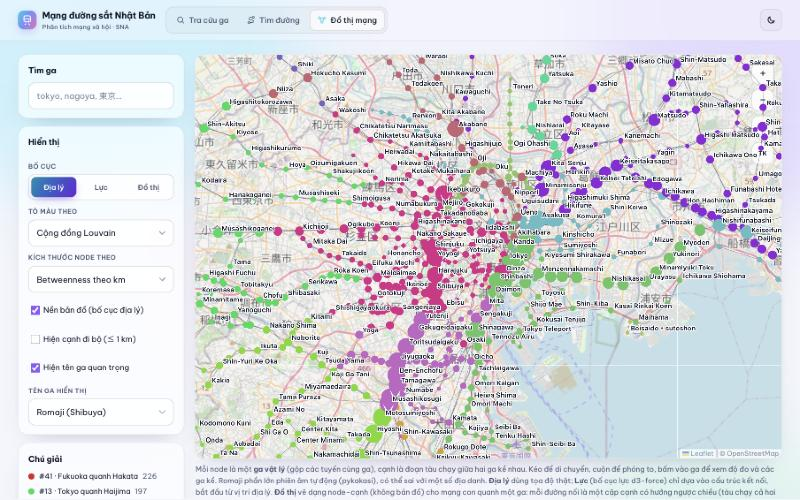
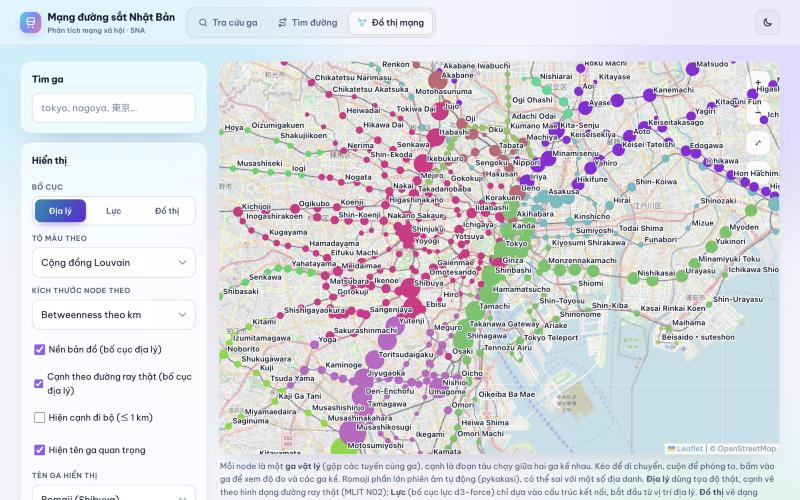
Update PTMXH rail slides with real track km (MLIT N02)

diff --git a/phan-tich-mang-xa-hoi/BaiCaNhan_DuongSatNB_Slide.html b/phan-tich-mang-xa-hoi/BaiCaNhan_DuongSatNB_Slide.html
@@ -257,7 +257,7 @@
     <div class="flow">
       <div class="step"><div class="no">01</div><div class="tt">Crawl HeartRails</div><div class="dd">646 request API: tỉnh → tuyến → ga</div></div>
       <div class="arr">→</div>
-      <div class="step"><div class="no">02</div><div class="tt">MLIT N02</div><div class="dd">Công ty vận hành, loại tuyến</div></div>
+      <div class="step"><div class="no">02</div><div class="tt">MLIT N02</div><div class="dd">Công ty vận hành, loại tuyến, km đường ray</div></div>
       <div class="arr">→</div>
       <div class="step"><div class="no">03</div><div class="tt">Crawl ODPT</div><div class="dd">Giờ tàu, giá vé (chờ key)</div></div>
       <div class="arr">→</div>
@@ -338,11 +338,11 @@
   <!-- 6. MLIT -->
   <section class="slide" data-title="MLIT N02">
     <p class="kicker"><i></i>Lấy dữ liệu · <code>src/02_fetch_mlit_n02.py</code></p>
-    <h2>MLIT N02: bổ sung công ty vận hành và loại tuyến</h2>
+    <h2>MLIT N02: công ty vận hành, loại tuyến, km đường ray</h2>
     <div class="grid g2 fill">
       <div class="card">
         <h3>Tải về và đọc</h3>
-        <p>Tải file <code>N02-25_GML.zip</code>, đọc lớp <b>Station</b> (GeoJSON). Các trường dùng:</p>
+        <p>Tải file <code>N02-25_GML.zip</code>, đọc lớp <b>Station</b> (ga) và <b>RailroadSection</b> (21.933 đoạn ray). Các trường dùng:</p>
         <table>
           <tbody>
             <tr><td><code>N02_001</code></td><td><span class="jp">鉄道区分</span> <span class="ro">tetsudō kubun</span> <span class="vi">(phân loại kỹ thuật: đường sắt thường, tàu điện mặt đường…)</span></td></tr>
@@ -360,7 +360,10 @@
           <li>Tuyến Shinkansen <span class="vi">(tàu cao tốc)</span> chỉ được ghép với Shinkansen, tránh lỗi 東海道新幹線 <span class="ro">Tōkaidō Shinkansen</span> bị ghép nhầm sang 東海道線 <span class="ro">Tōkaidō-sen</span>.</li>
           <li>Xử lý ngoại lệ: Osaka Metro (pháp lý là “軌道” <span class="ro">kidō</span> <span class="vi">(đường ray kiểu tàu điện)</span>), tàu điện ngầm Sapporo bánh cao su, tàu điện 都電荒川線 <span class="ro">Toden Arakawa</span>.</li>
         </ul>
-        <div class="stat" style="margin-top:12px"><div class="n">596 / 598</div><div class="l">tuyến ghép được công ty vận hành + loại tuyến</div></div>
+        <div class="grid g2" style="margin-top:12px;gap:12px">
+          <div class="stat"><div class="n">596 / 598</div><div class="l">tuyến ghép được công ty + loại tuyến</div></div>
+          <div class="stat"><div class="n">98,9%</div><div class="l">cặp ga kề có km đường ray thật (<code>02b_rail_geometry.py</code>)</div></div>
+        </div>
       </div>
     </div>
   </section>
@@ -451,7 +454,7 @@
         <tr class="hl"><td colspan="2"><b>Tổng cạnh</b> · cộng 10.390 node = <b>52.440 bản ghi</b> (mục tiêu ≈ 50k)</td><td class="num"><b>42.050</b></td></tr>
       </tbody>
     </table>
-    <p class="small muted" style="margin-top:16px">Cột của cạnh: <code>source, target, edge_type, line, distance_km, run_time_min, time_source, train_types, trains_per_weekday, direction_terminal</code>. Khoảng cách là đường chim bay giữa hai tọa độ, ghi rõ không phải km theo đường ray.</p>
+    <p class="small muted" style="margin-top:16px">Cột của cạnh: <code>source, target, edge_type, line, distance_km, track_km, km_source, run_time_min, time_source, train_types, trains_per_weekday, direction_terminal</code>. <code>track_km</code> = km theo đường ray thật (MLIT N02, đo dọc ray giữa hai ga kề); <code>distance_km</code> = đường chim bay, dùng cho cạnh đi bộ và 1,1% cạnh tàu chưa ghép được ray.</p>
   </section>
 
   <!-- 10. Làm sạch + romaji -->
@@ -505,8 +508,8 @@
         <span class="tag g">Cấp B · <code>05b_station_metrics.py</code></span>
         <h3 style="margin-top:6px">Ga vật lý, có trọng số km</h3>
         <ul class="small">
-          <li>9.075 ga; <b>9.624 cạnh</b>; tổng chiều dài 25.866 km.</li>
-          <li>Trọng số = km đường chim bay; đường ngắn nhất bằng Dijkstra.</li>
+          <li>9.075 ga; <b>9.624 cạnh</b>; tổng chiều dài 27.635 km.</li>
+          <li>Trọng số = <b>km đường ray thật</b> (MLIT N02); đường ngắn nhất bằng Dijkstra.</li>
           <li>Độ đo: degree, betweenness theo <b>bước</b> và theo <b>km</b>, closeness theo bước và theo km.</li>
           <li>Lý do: một chặng Shinkansen 30 km ≠ một chặng tàu thường 1 km.</li>
         </ul>
@@ -532,8 +535,8 @@
       <div class="stat"><div class="n">1,0</div><div class="l">reciprocity (tỉ lệ cạnh có chiều ngược)</div></div>
       <div class="stat"><div class="n">0,031</div><div class="l">clustering trung bình</div></div>
       <div class="stat"><div class="n">0,959</div><div class="l">modularity · 122 cộng đồng Louvain</div></div>
-      <div class="stat"><div class="n">≈ 57</div><div class="l">chặng TB giữa hai ga · ≈ 590 km</div></div>
-      <div class="stat"><div class="n">≈ 241</div><div class="l">chặng đường kính · 2.541 km</div></div>
+      <div class="stat"><div class="n">≈ 57</div><div class="l">chặng TB giữa hai ga · ≈ 624 km</div></div>
+      <div class="stat"><div class="n">≈ 241</div><div class="l">chặng đường kính · 2.736 km</div></div>
     </div>
     <div class="grid g3" style="margin-top:20px">
       <div class="callout"><p><b>Thưa + đường đi dài</b>: mạng không gian dạng chuỗi, mỗi ga chỉ nối vài ga kề — trái ngược mạng xã hội “thế giới nhỏ”.</p></div>
@@ -592,21 +595,21 @@
         <p class="small muted" style="margin-top:10px">Toàn bộ là ga trên trục <b>Tokaido Shinkansen</b>: một chặng Shinkansen dài vài chục km chỉ tính 1 bước, nên đường “ngắn nhất” luôn đi tàu cao tốc.</p>
       </div>
       <div class="card accent">
-        <h3>Theo km (Dijkstra, trọng số km)</h3>
+        <h3>Theo km đường ray (Dijkstra)</h3>
         <div class="bars">
-          <div class="bar"><span class="nm"><b>Himeji</b> <span class="jp xs">姫路</span></span><span class="t"><i style="width:100%"></i></span><span class="v">.316</span></div>
-          <div class="bar"><span class="nm"><b>Okayama</b> <span class="jp xs">岡山</span></span><span class="t"><i style="width:97%"></i></span><span class="v">.307</span></div>
-          <div class="bar"><span class="nm"><b>Aioi</b> <span class="jp xs">相生</span></span><span class="t"><i style="width:93%"></i></span><span class="v">.294</span></div>
-          <div class="bar"><span class="nm"><b>Kyoto</b></span><span class="t"><i style="width:79%"></i></span><span class="v">.249</span></div>
-          <div class="bar"><span class="nm"><b>Nagoya</b></span><span class="t"><i style="width:77%"></i></span><span class="v">.243</span></div>
-          <div class="bar"><span class="nm"><b>Hiroshima</b></span><span class="t"><i style="width:76%"></i></span><span class="v">.239</span></div>
+          <div class="bar"><span class="nm"><b>Yamashina</b> <span class="jp xs">山科</span></span><span class="t"><i style="width:100%"></i></span><span class="v">.348</span></div>
+          <div class="bar"><span class="nm"><b>Okayama</b> <span class="jp xs">岡山</span></span><span class="t"><i style="width:92%"></i></span><span class="v">.320</span></div>
+          <div class="bar"><span class="nm"><b>Himeji</b> <span class="jp xs">姫路</span></span><span class="t"><i style="width:91%"></i></span><span class="v">.318</span></div>
+          <div class="bar"><span class="nm"><b>Nishi-Akashi</b> <span class="jp xs">西明石</span></span><span class="t"><i style="width:90%"></i></span><span class="v">.313</span></div>
+          <div class="bar"><span class="nm"><b>Kyoto</b></span><span class="t"><i style="width:89%"></i></span><span class="v">.310</span></div>
+          <div class="bar"><span class="nm"><b>Aioi</b> <span class="jp xs">相生</span></span><span class="t"><i style="width:87%"></i></span><span class="v">.304</span></div>
         </div>
-        <p class="small muted" style="margin-top:10px">Nút thắt thật trên hành lang <b>San'yo</b> nối Kansai với Chugoku – Kyushu: gần như mọi lộ trình Đông ↔ Tây đều phải qua.</p>
+        <p class="small muted" style="margin-top:10px">Nút thắt ở <b>cửa ngõ Kyoto</b> (Yamashina: Tokaido + Kosei nhập vào) và hành lang <b>San'yo</b> nối Kansai với Chugoku – Kyushu. Nơi Shinkansen song song tuyến thường, hạng từng ga nhạy với chênh lệch km nhỏ → đọc theo hành lang.</p>
       </div>
     </div>
     <div class="grid g3" style="margin-top:16px">
-      <div class="stat"><div class="n">0,61</div><div class="l">tương quan hạng Spearman giữa hai cách đo</div></div>
-      <div class="stat"><div class="n">6 / 20</div><div class="l">ga trùng nhau trong top 20</div></div>
+      <div class="stat"><div class="n">0,56</div><div class="l">tương quan hạng Spearman giữa hai cách đo</div></div>
+      <div class="stat"><div class="n">3 / 20</div><div class="l">ga trùng nhau trong top 20</div></div>
       <div class="stat"><div class="n">k = 300</div><div class="l">betweenness cấp A lấy mẫu 300 nguồn, seed 42</div></div>
     </div>
   </section>
@@ -621,11 +624,11 @@
         <table>
           <thead><tr><th>Ga</th><th class="num">Closeness</th><th class="num">km TB</th></tr></thead>
           <tbody>
-            <tr><td><b>Nagoya</b> <span class="jp xs">名古屋</span></td><td class="num">2,430</td><td class="num">≈ 411</td></tr>
-            <tr><td>Kokusai Center <span class="jp xs">国際センター</span></td><td class="num">2,427</td><td class="num">≈ 412</td></tr>
-            <tr><td>Fushimi <span class="jp xs">伏見</span></td><td class="num">2,427</td><td class="num">≈ 412</td></tr>
-            <tr><td>Sakae <span class="jp xs">栄</span></td><td class="num">2,426</td><td class="num">≈ 412</td></tr>
-            <tr><td class="muted">Shinjuku (so sánh)</td><td class="num muted">2,110</td><td class="num muted">≈ 474</td></tr>
+            <tr><td><b>Nagoya</b> <span class="jp xs">名古屋</span></td><td class="num">2,284</td><td class="num">≈ 438</td></tr>
+            <tr><td>Fushimi <span class="jp xs">伏見</span></td><td class="num">2,283</td><td class="num">≈ 438</td></tr>
+            <tr><td>Sakae <span class="jp xs">栄</span></td><td class="num">2,283</td><td class="num">≈ 438</td></tr>
+            <tr><td>Kokusai Center <span class="jp xs">国際センター</span></td><td class="num">2,283</td><td class="num">≈ 438</td></tr>
+            <tr><td class="muted">Shinjuku (so sánh)</td><td class="num muted">2,007</td><td class="num muted">≈ 498</td></tr>
           </tbody>
         </table>
         <p class="small muted" style="margin-top:10px">Top toàn là ga trung tâm Nagoya: tâm hình học của mạng nằm ở vùng Chubu. Tính trên thành phần lớn nhất.</p>
@@ -697,7 +700,7 @@
     <table>
       <thead><tr><th style="width:5%">#</th><th style="width:28%">Độ đo</th><th>Trả lời câu hỏi</th><th style="width:15%">Mức độ</th></tr></thead>
       <tbody>
-        <tr class="hl"><td>1</td><td><b>Betweenness theo km</b> (ga vật lý)</td><td>Q1 — ga cầu nối, điểm nghẽn giữa các vùng: Himeji, Okayama</td><td><span class="tag g">Quan trọng nhất</span></td></tr>
+        <tr class="hl"><td>1</td><td><b>Betweenness theo km</b> (ga vật lý)</td><td>Q1 — ga cầu nối, điểm nghẽn giữa các vùng: cửa ngõ Kyoto (Yamashina), Okayama, Himeji</td><td><span class="tag g">Quan trọng nhất</span></td></tr>
         <tr><td>2</td><td><b>Degree / số tuyến</b></td><td>Q2 — ga đầu mối trung chuyển: Tokyo, Omiya, Yokohama</td><td><span class="tag g">Quan trọng</span></td></tr>
         <tr><td>3</td><td><b>Closeness theo km</b></td><td>Ga ở “trung tâm” địa lý của mạng: Nagoya</td><td><span class="tag g">Quan trọng</span></td></tr>
         <tr><td>4</td><td><b>Louvain + SCC/WCC</b></td><td>Q3, Q4 — cụm vùng, mạng tách rời</td><td><span class="tag g">Quan trọng</span></td></tr>
@@ -734,9 +737,9 @@
     <p class="kicker"><i></i>Ứng dụng · <code>web/route.html</code></p>
     <h2>Tìm đường giữa hai ga</h2>
     <div class="grid g-6-4 fill">
-      <figure><img class="shot" src="slide-art/rail-web-route.jpg" width="800" height="500" alt="Lộ trình Tokyo đến Himeji: 19 chặng, 1 lần chuyển tuyến, 564,8 km" loading="lazy" /><figcaption>Tokyo → Himeji: 19 chặng, 1 lần chuyển tuyến tại Shin-Osaka, 564,8 km.</figcaption></figure>
+      <figure><img class="shot" src="slide-art/rail-web-route.jpg" width="800" height="500" alt="Lộ trình Tokyo đến Himeji: 19 chặng, 1 lần chuyển tuyến, 599,9 km theo đường ray" loading="lazy" /><figcaption>Tokyo → Himeji: 19 chặng, 1 lần chuyển tuyến tại Shin-Osaka, 599,9 km theo đường ray; lộ trình vẽ theo ray thật.</figcaption></figure>
       <div class="grid" style="align-content:start">
-        <div class="card"><h3>Dijkstra, 4 tiêu chí</h3><p class="small">Ít chặng nhất · ít chuyển tuyến nhất · ngắn nhất (km) · nhanh nhất (chỉ khi có thời gian chính thức).</p></div>
+        <div class="card"><h3>Dijkstra, 4 tiêu chí</h3><p class="small">Ít chặng nhất · ít chuyển tuyến nhất · ngắn nhất (km đường ray) · nhanh nhất (chỉ khi có thời gian chính thức).</p></div>
         <div class="card"><h3>Từng chặng</h3><p class="small">Tuyến, loại tuyến, công ty, hướng về terminal nào, số ga, thời gian, loại tàu, giá vé; vẽ lộ trình lên bản đồ.</p></div>
         <div class="card warn"><h3>Trung thực với dữ liệu</h3><p class="small">Chặng chưa có dữ liệu ODPT ghi “Chưa có dữ liệu chính thức” và không cộng vào tổng.</p></div>
       </div>
@@ -748,7 +751,7 @@
     <p class="kicker"><i></i>Ứng dụng · <code>web/graph.html</code></p>
     <h2>Trực quan hóa đồ thị mạng</h2>
     <div class="grid g2">
-      <figure><img class="shot" src="slide-art/rail-web-graph-geo.jpg" width="800" height="500" alt="Bố cục địa lý quanh Tokyo trên nền bản đồ, màu theo cộng đồng Louvain" loading="lazy" /><figcaption><b>Địa lý</b>: 9.075 ga trên nền bản đồ, màu = cộng đồng Louvain, kích thước = betweenness theo km.</figcaption></figure>
+      <figure><img class="shot" src="slide-art/rail-web-graph-geo.jpg" width="800" height="500" alt="Bố cục địa lý quanh Tokyo trên nền bản đồ, màu theo cộng đồng Louvain" loading="lazy" /><figcaption><b>Địa lý</b>: 9.075 ga trên nền bản đồ, cạnh vẽ theo hình dạng đường ray thật; màu = cộng đồng Louvain, kích thước = betweenness theo km.</figcaption></figure>
       <figure><img class="shot" src="slide-art/rail-web-graph-ego.jpg" width="800" height="500" alt="Đồ thị node–cạnh quanh ga Shinjuku, 3 bước" loading="lazy" /><figcaption><b>Đồ thị</b>: mạng con node–cạnh quanh Shinjuku (3 bước, 80 ga), kéo thả, bấm đúp đổi ga trung tâm.</figcaption></figure>
     </div>
     <p class="small muted" style="margin-top:14px">Ba bố cục: <b>Địa lý</b> (tọa độ thật, Web Mercator khớp bản đồ) · <b>Lực</b> (d3-force, chỉ theo cấu trúc kết nối) · <b>Đồ thị</b> (mạng con quanh một ga). Tô màu / kích thước theo cộng đồng, loại tuyến, betweenness, closeness, số tuyến.</p>
@@ -759,7 +762,7 @@
     <p class="kicker"><i></i>Ứng dụng · ý nghĩa thực tế</p>
     <h2>Các độ đo dùng để làm gì?</h2>
     <div class="grid g2 fill">
-      <div class="card"><h3>Khả năng chống chịu (resilience)</h3><p class="small">Ga betweenness theo km cao là <b>điểm nghẽn</b>: sự cố ở Himeji / Okayama cắt đứt liên lạc Kansai ↔ Chugoku – Kyushu. Dùng để ưu tiên tuyến dự phòng, phương án chạy vòng.</p></div>
+      <div class="card"><h3>Khả năng chống chịu (resilience)</h3><p class="small">Ga betweenness theo km cao là <b>điểm nghẽn</b>: sự cố ở cửa ngõ Kyoto hay Okayama / Himeji cắt đứt liên lạc Kansai ↔ Hokuriku, Chugoku – Kyushu. Dùng để ưu tiên tuyến dự phòng, phương án chạy vòng.</p></div>
       <div class="card"><h3>Quy hoạch trung chuyển</h3><p class="small">Degree / số tuyến chỉ ra ga đầu mối (Tokyo, Omiya, Shinjuku) — nơi cần sức chứa sân ga, lối chuyển tuyến, thông tin hành khách.</p></div>
       <div class="card"><h3>Phân vùng vận hành và du lịch</h3><p class="small">Cộng đồng Louvain gần khớp vùng đô thị → gợi ý phạm vi vé ngày / vé vùng, khu vực điều độ.</p></div>
       <div class="card"><h3>Vị trí đặt dịch vụ</h3><p class="small">Closeness theo km cho thấy Nagoya gần mọi nơi nhất trên mạng → hợp đặt trung tâm điều phối, kho, sự kiện toàn quốc.</p></div>
@@ -775,7 +778,7 @@
         <h3>Hạn chế</h3>
         <ul class="small">
           <li>Chưa có thời gian chạy, loại tàu, giá vé chính thức (chờ ODPT; ODPT cũng chủ yếu phủ Kanto).</li>
-          <li>Km là <b>đường chim bay</b> giữa hai ga, không phải km đường ray.</li>
+          <li>Km đường ray là km thực, khác km tính giá vé (営業キロ <span class="ro">eigyō kiro</span>); 1,1% cạnh tàu vẫn là đường chim bay.</li>
           <li>Mạng tĩnh gộp cả ngày → không thấy được chiều đi theo giờ.</li>
           <li>Betweenness cấp A lấy mẫu k = 300; romaji tự động có thể sai một số địa danh.</li>
         </ul>
@@ -786,7 +789,6 @@
           <li>Có key ODPT: chạy 03 → 06, thêm cạnh <code>service</code> (tàu nhanh), thời gian và giá vé thật.</li>
           <li>Mô hình có trọng số theo khung giờ và mạng theo thời gian (temporal): tìm đường theo giờ xuất phát.</li>
           <li>Mô phỏng chống chịu: lần lượt bỏ các ga betweenness cao, đo thành phần liên thông lớn nhất còn lại.</li>
-          <li>Km theo đường ray từ lớp RailroadSection của MLIT.</li>
         </ul>
       </div>
     </div>
@@ -797,9 +799,9 @@
     <p class="kicker"><i></i>Kết luận</p>
     <h1 style="font-size:50px">Mạng đường sắt Nhật Bản là <span class="grad">mạng không gian</span>:<br>thưa, dạng chuỗi, chia cụm theo vùng.</h1>
     <ul style="max-width:1050px">
-      <li><b>Q1:</b> Cầu nối Đông ↔ Tây là hành lang San'yo (Himeji, Okayama, Aioi) khi đo theo km; đo theo số chặng thì lệch sang Tokaido Shinkansen.</li>
+      <li><b>Q1:</b> Cầu nối Đông ↔ Tây là cửa ngõ Kyoto (Yamashina, Kyoto) và hành lang San'yo (Okayama, Himeji, Nishi-Akashi) khi đo theo km đường ray; đo theo số chặng thì lệch sang Tokaido Shinkansen.</li>
       <li><b>Q2:</b> Đầu mối trung chuyển: Tokyo (13 tuyến), Omiya, Yokohama, Shinjuku.</li>
-      <li><b>Q3:</b> 122 cộng đồng, modularity 0,96, khớp vùng đô thị. <b>Q4:</b> 94,7% ga liên thông; TB ≈ 57 chặng / 590 km.</li>
+      <li><b>Q3:</b> 122 cộng đồng, modularity 0,96, khớp vùng đô thị. <b>Q4:</b> 94,7% ga liên thông; TB ≈ 57 chặng / 624 km.</li>
     </ul>
     <p class="small muted" style="margin-top:20px">Nguồn: HeartRails Express · 国土数値情報 N02 <span class="ro">(Kokudo Sūchi Jōhō)</span>, MLIT, CC BY 4.0 · ODPT · OpenStreetMap. Độ đo tính bằng NetworkX và python-louvain.</p>
     <p style="font-size:30px;font-weight:800;margin-top:12px">Cảm ơn thầy và các bạn đã lắng nghe!</p>

diff --git a/phan-tich-mang-xa-hoi/BaiCaNhan_DuongSatNB_Slide_YTuong.html b/phan-tich-mang-xa-hoi/BaiCaNhan_DuongSatNB_Slide_YTuong.html
@@ -234,7 +234,7 @@
       <thead><tr><th style="width:27%">Nguồn</th><th style="width:37%">Lấy được gì</th><th>Cách lấy</th><th style="width:13%">Trạng thái</th></tr></thead>
       <tbody>
         <tr><td><b>HeartRails Express API</b><br><span class="xs muted">express.heartrails.com</span></td><td>Tên ga, tuyến, tỉnh, tọa độ, mã bưu chính, <b>ga trước / ga sau</b> trên tuyến</td><td class="small">Crawl 3 cấp: <code>getPrefectures</code> (1) → <code>getLines</code> (47) → <code>getStations</code> (598) = <b>646 request</b></td><td><span class="tag g">Đã crawl</span></td></tr>
-        <tr><td><b>MLIT N02</b> <span class="jp">国土数値情報</span><br><span class="xs ro">Kokudo Sūchi Jōhō</span> <span class="xs vi">(Dữ liệu số đất đai quốc gia, Bộ Giao thông NB)</span></td><td>Công ty vận hành, loại tuyến (JR / tư nhân / tàu điện ngầm / monorail / Shinkansen…)</td><td class="small">Tải bộ GeoJSON toàn quốc, giấy phép CC BY 4.0</td><td><span class="tag g">Đã tải</span></td></tr>
+        <tr><td><b>MLIT N02</b> <span class="jp">国土数値情報</span><br><span class="xs ro">Kokudo Sūchi Jōhō</span> <span class="xs vi">(Dữ liệu số đất đai quốc gia, Bộ Giao thông NB)</span></td><td>Công ty vận hành, loại tuyến (JR / tư nhân / tàu điện ngầm / Shinkansen…), <b>hình dạng đường ray</b> → km thật</td><td class="small">Tải bộ GeoJSON toàn quốc, giấy phép CC BY 4.0</td><td><span class="tag g">Đã tải</span></td></tr>
         <tr><td><b>ODPT</b><br><span class="xs muted">Open Data for Public Transportation</span></td><td>Giờ tàu thật (thời gian chạy từng chặng), loại tàu, giá vé chính thức giữa hai ga</td><td class="small">API <code>TrainTimetable</code>, <code>TrainType</code>, <code>RailwayFare</code>; chủ yếu vùng Kanto</td><td><span class="tag a">Chờ duyệt key</span></td></tr>
       </tbody>
     </table>
@@ -256,7 +256,7 @@
       <div class="arr">→</div>
       <div class="step"><div class="no">02 · Node</div><div class="tt">Ga @ tuyến</div><div class="dd"><code>新宿@JR山手線</code>; gộp node cùng tên + cùng tỉnh + ≤ 1 km thành <b>ga vật lý</b></div></div>
       <div class="arr">→</div>
-      <div class="step"><div class="no">03 · Cạnh</div><div class="tt">Cạnh có hướng</div><div class="dd">Từ <code>prev</code>/<code>next</code>: tàu chạy A → B và B → A, ghi ga cuối theo hướng chạy, khoảng cách km</div></div>
+      <div class="step"><div class="no">03 · Cạnh</div><div class="tt">Cạnh có hướng</div><div class="dd">Từ <code>prev</code>/<code>next</code>: tàu chạy A → B và B → A, ghi ga cuối theo hướng chạy, km theo đường ray thật (MLIT)</div></div>
       <div class="arr">→</div>
       <div class="step"><div class="no">04 · Romaji</div><div class="tt">Phiên âm</div><div class="dd">渋谷 → Shibuya, 米原 → Maibara (<code>pykakasi</code> + bảng sửa tay)</div></div>
       <div class="arr">→</div>
@@ -276,7 +276,7 @@
     <p class="kicker"><i></i>Trực quan hóa</p>
     <h2>Trực quan hóa đồ thị mạng ga</h2>
     <div class="grid g2">
-      <figure><img class="shot" src="slide-art/rail-web-graph-geo.jpg" width="800" height="500" alt="Đồ thị ga đặt theo tọa độ thật trên nền bản đồ" loading="lazy" /><figcaption><b>Theo địa lý:</b> mỗi chấm là một ga, đặt đúng tọa độ trên nền bản đồ; đường nối là cạnh tàu chạy. Thấy rõ mạng dày ở Tokyo, Osaka và các trục dài nối các vùng.</figcaption></figure>
+      <figure><img class="shot" src="slide-art/rail-web-graph-geo.jpg" width="800" height="500" alt="Đồ thị ga đặt theo tọa độ thật trên nền bản đồ" loading="lazy" /><figcaption><b>Theo địa lý:</b> mỗi chấm là một ga, đặt đúng tọa độ trên nền bản đồ; cạnh tàu chạy vẽ theo hình dạng đường ray thật. Thấy rõ mạng dày ở Tokyo, Osaka và các trục dài nối các vùng.</figcaption></figure>
       <figure><img class="shot" src="slide-art/rail-web-graph-ego.jpg" width="800" height="500" alt="Đồ thị node–cạnh quanh một ga" loading="lazy" /><figcaption><b>Dạng node – cạnh:</b> mạng con quanh một ga trong vài bước, bỏ bản đồ để thấy cấu trúc kết nối: ga đầu mối nhiều nhánh, ga chuyển tuyến.</figcaption></figure>
     </div>
     <p class="small muted" style="margin-top:14px">Dự kiến: màu node theo cộng đồng, kích thước theo độ quan trọng của ga, sau khi tính độ đo.</p>
@@ -315,7 +315,7 @@
     <div class="grid g-6-4 fill">
       <figure><img class="shot" src="slide-art/rail-web-route.jpg" width="800" height="500" alt="Trang tìm đường" loading="lazy" /></figure>
       <div class="grid" style="align-content:start">
-        <div class="card"><h3>Tiêu chí</h3><ul class="small"><li>Ít chặng nhất</li><li>Ít chuyển tuyến nhất</li><li>Ngắn nhất theo km</li><li>Nhanh nhất (khi có giờ tàu ODPT)</li></ul></div>
+        <div class="card"><h3>Tiêu chí</h3><ul class="small"><li>Ít chặng nhất</li><li>Ít chuyển tuyến nhất</li><li>Ngắn nhất theo km đường ray</li><li>Nhanh nhất (khi có giờ tàu ODPT)</li></ul></div>
         <div class="card"><h3>Kết quả</h3><p class="small">Từng chặng: tuyến, hướng chạy (về ga cuối nào), số ga, thời gian, giá vé; lộ trình vẽ trên bản đồ.</p></div>
         <div class="card warn"><p class="small">Thời gian, giá vé chỉ hiện khi có dữ liệu chính thức; thiếu thì ghi “chưa có dữ liệu”.</p></div>
       </div>
